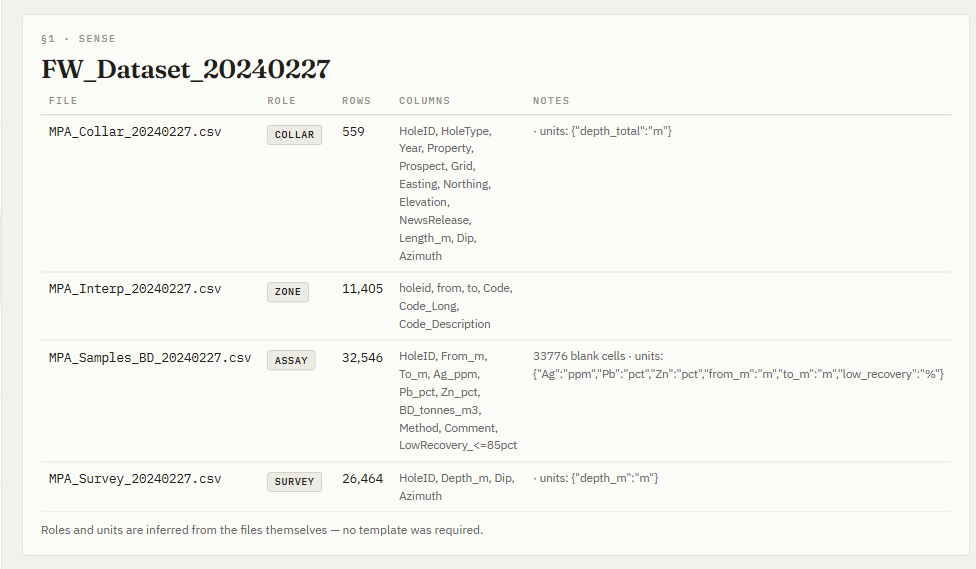
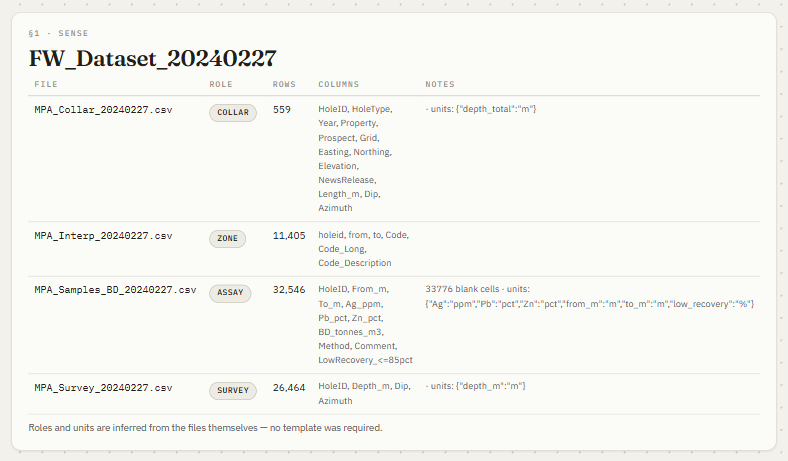
Modernize visual language: rounded cards, soft shadows, gradient CTA
Blends the existing report-like identity (Fraunces, gold accent, ruler
motif) with a slicker modern-SaaS execution — rounded corners, layered
shadows, a gradient primary CTA, pill chips/tags, and a subtle dot-grid
background echoing the ruler. Screenshots recaptured from the updated app.

diff --git a/index.html b/index.html
@@ -26,9 +26,13 @@
     --ground: #f2f1ec; --panel: #fbfbf8; --inset: #ecebe4;
     --ink: #201f1a; --ink-2: #63615a; --ink-3: #93908a;
     --line: #dcdad0; --line-2: #c4c1b4;
-    --accent: #996d10; --accent-ink: #7c580c; --accent-soft: #f0e8d2;
+    --accent: #996d10; --accent-ink: #7c580c; --accent-soft: #f0e8d2; --accent-2: #b9862a;
     --min: #bc4430; --low: #38648f; --interp: #7b57ab;
     --ok: #47723a; --warn: #99610f; --bad: #a83323;
+    --radius-sm: 8px; --radius: 12px; --radius-lg: 18px;
+    --shadow-sm: 0 1px 2px rgba(32,31,26,.07);
+    --shadow-md: 0 8px 24px -8px rgba(32,31,26,.14), 0 2px 6px rgba(32,31,26,.05);
+    --shadow-lg: 0 20px 48px -14px rgba(153,109,16,.28), 0 4px 12px rgba(32,31,26,.06);
     color-scheme: light;
   }
   /* dark "deep-umber" — via prefers-color-scheme only */
@@ -36,15 +40,21 @@
     --ground: #141311; --panel: #1c1a16; --inset: #232019;
     --ink: #e7e1d2; --ink-2: #9d9481; --ink-3: #6d675a;
     --line: #322e25; --line-2: #453f32;
-    --accent: #d3a03f; --accent-ink: #ddb05c; --accent-soft: #2f260f;
+    --accent: #d3a03f; --accent-ink: #ddb05c; --accent-soft: #2f260f; --accent-2: #e6bb63;
     --min: #dd5e4a; --low: #6b93d1; --interp: #a37fd4;
     --ok: #7fae6e; --warn: #cf8a3c; --bad: #de6753;
+    --shadow-sm: 0 1px 2px rgba(0,0,0,.4);
+    --shadow-md: 0 10px 28px -8px rgba(0,0,0,.55), 0 2px 6px rgba(0,0,0,.3);
+    --shadow-lg: 0 22px 52px -14px rgba(211,160,63,.3), 0 6px 16px rgba(0,0,0,.4);
     color-scheme: dark;
   }}
 
   * { box-sizing: border-box; margin: 0; }
   html { -webkit-text-size-adjust: 100%; }
-  body { background: var(--ground); color: var(--ink);
+  body { background:
+      radial-gradient(circle at 1px 1px, var(--line-2) 1px, transparent 0) 0 0/28px 28px,
+      var(--ground);
+    color: var(--ink);
     font: 15px/1.6 'Plex Sans', system-ui, "Segoe UI", sans-serif;
     -webkit-font-smoothing: antialiased; }
   .mono { font-family: 'Plex Mono', ui-monospace, Consolas, monospace; }
@@ -62,6 +72,7 @@
     background-color: var(--panel); }
 
   /* ---- header ---- */
+  header { position: sticky; top: 0; z-index: 5; background: var(--panel); }
   .bar { display: flex; align-items: baseline; gap: 16px;
     padding: 16px 24px 11px; background: var(--panel);
     max-width: 1000px; margin: 0 auto; }
@@ -103,9 +114,9 @@
   .eyebrow .d { color: var(--ink-3); }
 
   h1, h2 { font-family: 'Fraunces', Georgia, serif; font-weight: 600;
-    letter-spacing: -.012em; text-wrap: balance; }
-  h1 { font-size: clamp(30px, 5.4vw, 44px); line-height: 1.1; }
-  h2 { font-size: clamp(22px, 3.6vw, 28px); line-height: 1.18; }
+    letter-spacing: -.015em; text-wrap: balance; }
+  h1 { font-size: clamp(32px, 5.8vw, 48px); line-height: 1.08; }
+  h2 { font-size: clamp(23px, 3.6vw, 29px); line-height: 1.18; }
   p { max-width: 66ch; }
   .lead-sans { color: var(--ink-2); font-size: 16.5px; margin-top: 18px; }
 
@@ -113,9 +124,10 @@
   .hero p.sub { color: var(--ink-2); font-size: 17px; margin-top: 20px; }
   /* the proof hook — the single gold element in the hero view */
   .hook { display: inline-flex; align-items: baseline; gap: 0; flex-wrap: wrap;
-    margin-top: 26px; padding: 11px 15px; border: 1px solid var(--line-2);
-    border-left: 3px solid var(--accent); border-radius: 0 4px 4px 0;
-    background: var(--panel); font-family: 'Plex Mono', ui-monospace, monospace;
+    margin-top: 26px; padding: 12px 17px; border: 1px solid var(--line-2);
+    border-left: 4px solid var(--accent); border-radius: 0 var(--radius) var(--radius) 0;
+    background: linear-gradient(135deg, var(--accent-soft), var(--panel) 65%);
+    box-shadow: var(--shadow-md); font-family: 'Plex Mono', ui-monospace, monospace;
     font-size: 15px; font-variant-numeric: tabular-nums; color: var(--ink); }
   .hook b { color: var(--accent-ink); font-weight: 500; }
   .hook .eq { padding: 0 .5ch; color: var(--ink-3); }
@@ -123,18 +135,23 @@
   .cta { display: flex; flex-wrap: wrap; gap: 12px; margin-top: 30px; }
   .btn { font: 600 14px/1.2 'Plex Sans', system-ui, sans-serif; cursor: pointer;
     border: 1px solid var(--line-2); background: var(--panel); color: var(--ink);
-    border-radius: 4px; padding: 11px 18px; text-decoration: none; display: inline-block; }
-  .btn:hover { border-color: var(--ink-3); }
-  .btn.primary { background: var(--accent); border-color: var(--accent); color: var(--panel); }
-  .btn.primary:hover { filter: brightness(1.07); border-color: var(--accent); }
+    border-radius: var(--radius-sm); padding: 12px 19px; text-decoration: none; display: inline-block;
+    box-shadow: var(--shadow-sm);
+    transition: transform .15s ease, box-shadow .15s ease, border-color .15s ease, filter .15s ease; }
+  .btn:hover { border-color: var(--ink-3); box-shadow: var(--shadow-md); transform: translateY(-1px); }
+  .btn.primary { background: linear-gradient(135deg, var(--accent-2), var(--accent-ink));
+    border-color: transparent; color: var(--panel); font-weight: 700; box-shadow: var(--shadow-md); }
+  .btn.primary:hover { filter: brightness(1.06); }
+  @media (prefers-reduced-motion: reduce) { .btn { transition: none; } .btn:hover { transform: none; } }
 
   /* ---- ruled sequence (three steps, not cards) ---- */
   .seq { margin-top: 8px; border-top: 1px solid var(--line); }
-  .step { display: grid; grid-template-columns: 3.2rem 1fr; gap: 20px;
+  .step { display: grid; grid-template-columns: 3.2rem 1fr; gap: 20px; align-items: start;
     padding: 22px 0; border-bottom: 1px solid var(--line); }
-  .step .n { font-family: 'Plex Mono', ui-monospace, monospace; font-size: 13px;
-    font-weight: 500; color: var(--accent-ink); padding-top: .28em;
-    font-variant-numeric: tabular-nums; }
+  .step .n { font-family: 'Plex Mono', ui-monospace, monospace; font-size: 12px;
+    font-weight: 600; color: var(--accent-ink); font-variant-numeric: tabular-nums;
+    background: var(--accent-soft); border-radius: 999px; width: 2.2rem; height: 2.2rem;
+    display: flex; align-items: center; justify-content: center; }
   .step h3 { font-family: 'Fraunces', Georgia, serif; font-size: 18px; font-weight: 600;
     margin-bottom: 5px; }
   .step p { color: var(--ink-2); font-size: 15px; }
@@ -144,7 +161,7 @@
 
   /* ---- proof table ---- */
   .exhibit { overflow-x: auto; margin-top: 24px; border: 1px solid var(--line);
-    border-radius: 5px; background: var(--panel); }
+    border-radius: var(--radius); background: var(--panel); box-shadow: var(--shadow-sm); }
   table.proof { width: 100%; border-collapse: collapse;
     font-family: 'Plex Mono', ui-monospace, Consolas, monospace;
     font-variant-numeric: tabular-nums; font-size: 13px; }
@@ -168,8 +185,8 @@
   /* ---- screenshot slots (real app grabs dropped in later) ---- */
   figure { margin: 26px 0 0; }
   figure img { display: block; width: 100%; height: auto; border: 1px solid var(--line-2);
-    border-radius: 5px; background: var(--inset); }
-  .shot-slot { border: 1px dashed var(--line-2); border-radius: 5px; background: var(--inset);
+    border-radius: var(--radius); background: var(--inset); box-shadow: var(--shadow-md); }
+  .shot-slot { border: 1px dashed var(--line-2); border-radius: var(--radius); background: var(--inset);
     color: var(--ink-3); font-family: 'Plex Mono', ui-monospace, monospace; font-size: 12px;
     padding: 40px 18px; text-align: center; }
   figcaption { color: var(--ink-3); font-size: 12.5px; margin-top: 9px;